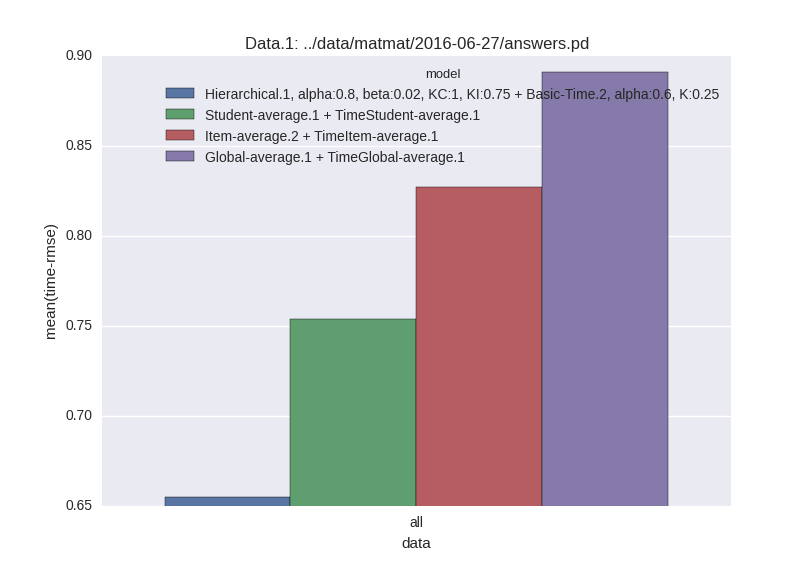
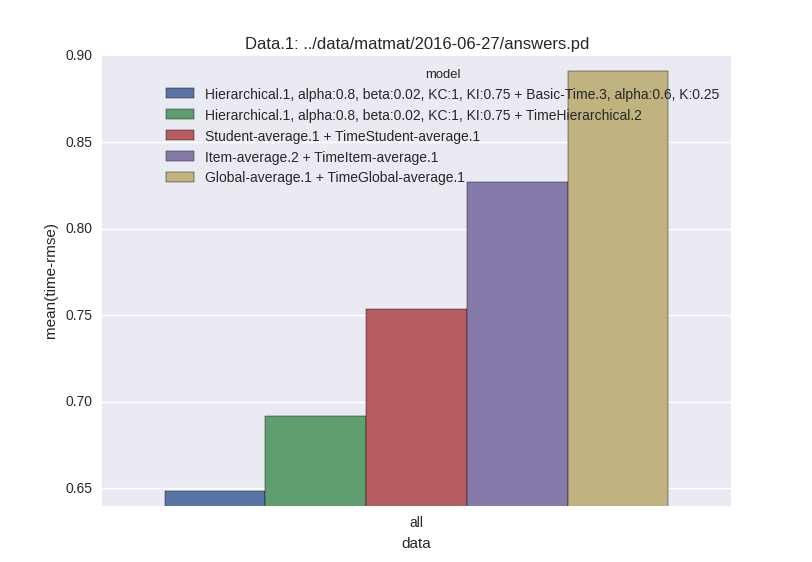
hierarchical time model

diff --git a/models/time_models.py b/models/time_models.py
@@ -155,16 +155,19 @@ class BasicTimeModel(Model):
     def get_skill(self, student):
         return self.skill[student]
 
+    def get_difficulty(self, item):
+        return self.intensity[item]
+
 
 class TimeEloHierarchicalModel(Model):
     """
     Model work with tree structure and update all ancestors with level based decay
     """
 
-    def __init__(self, alpha=1.0, beta=0.1, KC=3.5, KI=2.5):
+    def __init__(self, alpha=0.8, beta=0.08, KC=0.075, KI=0.1):
         Model.__init__(self)
-        self.VERSION = 1
-        self.name = "Hierarchical"
+        self.VERSION = 2
+        self.name = "TimeHierarchical"
 
         self._alpha = alpha
         self._beta = beta
@@ -177,29 +180,29 @@ class TimeEloHierarchicalModel(Model):
         self.skill_parents = data.get_skill_structure()
         self.item_parents = data.get_item_assignment()
         self.skill = defaultdict(lambda: defaultdict(lambda: 0))
-        self.difficulty = defaultdict(lambda: 0)
+        self.intensity = defaultdict(lambda: 0)
         self.student_attempts = defaultdict(lambda: defaultdict(lambda: 0))
         self.item_attempts = defaultdict(lambda: 0)
         self.first_attempt = defaultdict(lambda: defaultdict(lambda: True))
 
     def predict(self, student, item, extra=None):
         skill = self._get_skill(student, self.item_parents[item])
-        prediction = self._sigmoid(skill - self.difficulty[item])
-
-        return prediction
+        prediction = self.intensity[item] - skill
+        return math.exp(prediction)
 
     def update(self, student, item, prediction, time_prediction, correct, response_time, extra=None):
-        dif = (correct - prediction)
+        dif = (math.log(time_prediction) - math.log(response_time))
 
         for level, skill in enumerate(self._get_parents(item)):
-            p = self._sigmoid(self._get_skill(student, skill) - self.difficulty[item])
+            p = self.intensity[item] - self._get_skill(student, skill)
+            dif = (p - math.log(response_time))
             K = self._KC if correct else self._KI
             decay = self.decay_function(self.student_attempts[skill][student])
-            self.skill[skill][student] += decay * (correct - p) * K
+            self.skill[skill][student] += decay * dif * K
             self.student_attempts[skill][student] += 1
 
         if self.first_attempt[item][student]:
-            self.difficulty[item] -= self.decay_function(self.item_attempts[item]) * dif
+            self.intensity[item] -= self.decay_function(self.item_attempts[item]) * dif
 
         self.item_attempts[item] += 1
         self.first_attempt[item][student] = False
@@ -223,4 +226,4 @@ class TimeEloHierarchicalModel(Model):
         return self.skill[1][student]
 
     def get_difficulty(self, item):
-        return self.difficulty[item]
+        return self.intensity[item]

diff --git a/matmat/time_modeling.py b/matmat/time_modeling.py
@@ -3,7 +3,8 @@ import pandas as pd
 import seaborn as sns
 from models.eloHierarchical import EloHierarchicalModel
 from models.model import ItemAvgModel, StudentAvgModel, AvgModel
-from models.time_models import TimeAvgModel, TimeCombiner, TimeStudentAvgModel, TimeItemAvgModel, BasicTimeModel
+from models.time_models import TimeAvgModel, TimeCombiner, TimeStudentAvgModel, TimeItemAvgModel, BasicTimeModel, \
+    TimeEloHierarchicalModel
 from utils import data as d
 from utils.evaluator import Evaluator
 import matplotlib.pylab as plt
@@ -19,11 +20,27 @@ def grid_search_K():
                 plot_axes='K', time=True,
                 )
 
+def grid_search_Ks():
+    grid_search(data, lambda **kwargs: TimeCombiner(AvgModel(), TimeEloHierarchicalModel(**kwargs)),
+                {"alpha": 1.0, "beta": 0.1},
+                {"KC": np.arange(0.025, 0.2, 0.025),"KI": np.arange(0.025, 0.2, 0.025)},
+                plot_axes=['KI', 'KC'], time=True,
+                )
+
 
 def grid_search_AB():
     grid_search(data, lambda **kwargs: TimeCombiner(AvgModel(), BasicTimeModel(**kwargs)),
                 {"K": 0.25}, {
                     "alpha": np.arange(0.4, 1.3, 0.2),
+                    "beta": np.arange(0.06, 0.2, 0.02),
+                }, plot_axes=['alpha', 'beta'], time=True,
+                )
+
+
+def grid_search_AB2():
+    grid_search(data, lambda **kwargs: TimeCombiner(AvgModel(), TimeEloHierarchicalModel(**kwargs)),
+                {"KI": 0.1, 'KC': 0.075}, {
+                    "alpha": np.arange(0.6, 1.3, 0.2),
                     "beta": np.arange(0.06, 0.2, 0.02),
                 }, plot_axes=['alpha', 'beta'], time=True,
                 )
@@ -70,7 +87,7 @@ compare_models(data, [
     TimeCombiner(ItemAvgModel(), TimeItemAvgModel()),
     TimeCombiner(StudentAvgModel(), TimeStudentAvgModel()),
     TimeCombiner(EloHierarchicalModel(KC=1, KI=0.75, alpha=0.8, beta=0.02), BasicTimeModel(alpha=0.6, beta=0.1, K=0.25)),
-    TimeCombiner(EloHierarchicalModel(KC=1, KI=0.75, alpha=0.8, beta=0.02), BasicTimeModel(alpha=0.6, beta=0.1, K=0.25, floating_start=False)),
+    TimeCombiner(EloHierarchicalModel(KC=1, KI=0.75, alpha=0.8, beta=0.02), TimeEloHierarchicalModel()),
 ], dont=0)
 
 
@@ -86,12 +103,14 @@ compare_models(data, [
 
 
 # grid_search_K()
+# grid_search_Ks()
 # grid_search_AB()
+# grid_search_AB2()
 
 
-# model = TimeCombiner(ItemAvgModel(), TimeStudentAvgModel())
+# model = TimeCombiner(ItemAvgModel(), TimeEloHierarchicalModel())
 # Evaluator(data, model).get_report(force_run=True)
-# Evaluator(data, model).brier_graphs()
+# Evaluator(data, model).brier_graphs(time=True)
 # Evaluator(data, TimeCombiner(EloHierarchicalModel(KC=1, KI=0.75, alpha=0.8, beta=0.02), BasicTimeModel(alpha=0.6, beta=0.1, K=0.25))).brier_graphs(time=True)
 # Evaluator(data, model).brier_graphs(time_raw=True)
 plt.show()

diff --git a/matmat/model_learning.py b/matmat/model_learning.py
@@ -25,9 +25,14 @@ def model_learning(prediction_model, time_model, data, length=200):
         skill = model._prediction_model.get_skill(student)
         speed = model._time_model.get_skill(student)
         enums[student] += 1
-        df.append([item, student, skill, speed, enums[student], answer["correct"], np.log(answer["response_time"]), prediction, np.log(time_prediction)])
+        df.append([item, student, skill, speed, enums[student],
+                   answer["correct"], np.log(answer["response_time"]),
+                   prediction, np.log(time_prediction),
+                   model._prediction_model.get_difficulty(item),
+                   model._time_model.get_difficulty(item),
+                   ])
 
-    df = pd.DataFrame(df, columns=('item', 'student', 'skill', 'speed', 'enum', 'correct', 'response_time_log', 'prediction', 'time_prediction_log'))
+    df = pd.DataFrame(df, columns=('item', 'student', 'skill', 'speed', 'enum', 'correct', 'response_time_log', 'prediction', 'time_prediction_log', 'difficulty', 'intensity'))
 
     points = range(1, length + 1)
     plt.subplot(321)
@@ -57,9 +62,13 @@ def model_learning(prediction_model, time_model, data, length=200):
     plt.xlabel('# answer')
     plt.ylabel('time')
     plt.subplot(326)
-    plt.bar(points[:-1], [(df['enum'] == p).sum() for p in points[:-1]])
-    plt.ylabel('User count')
+    plt.plot(points, [df.loc[df['enum'] == p, 'intensity'].mean() for p in points])
+    plt.ylabel('Intensity')
+    # plt.plot(points, [df.loc[df['enum'] == p, 'difficulty'].mean() for p in points])
+    # plt.ylabel('Difficulty')
     plt.xlabel('# answer')
+
+    df.to_pickle('model_learning.pd')
 
     return df
 
@@ -74,6 +83,7 @@ data_long.trim_times()
 model_learning(
     EloHierarchicalModel(KC=1, KI=0.75, alpha=0.8, beta=0.02),
     BasicTimeModel(alpha=0.6, beta=0.1, K=0.25),
+    # TimeItemAvgModel(),
     data
 )
 
